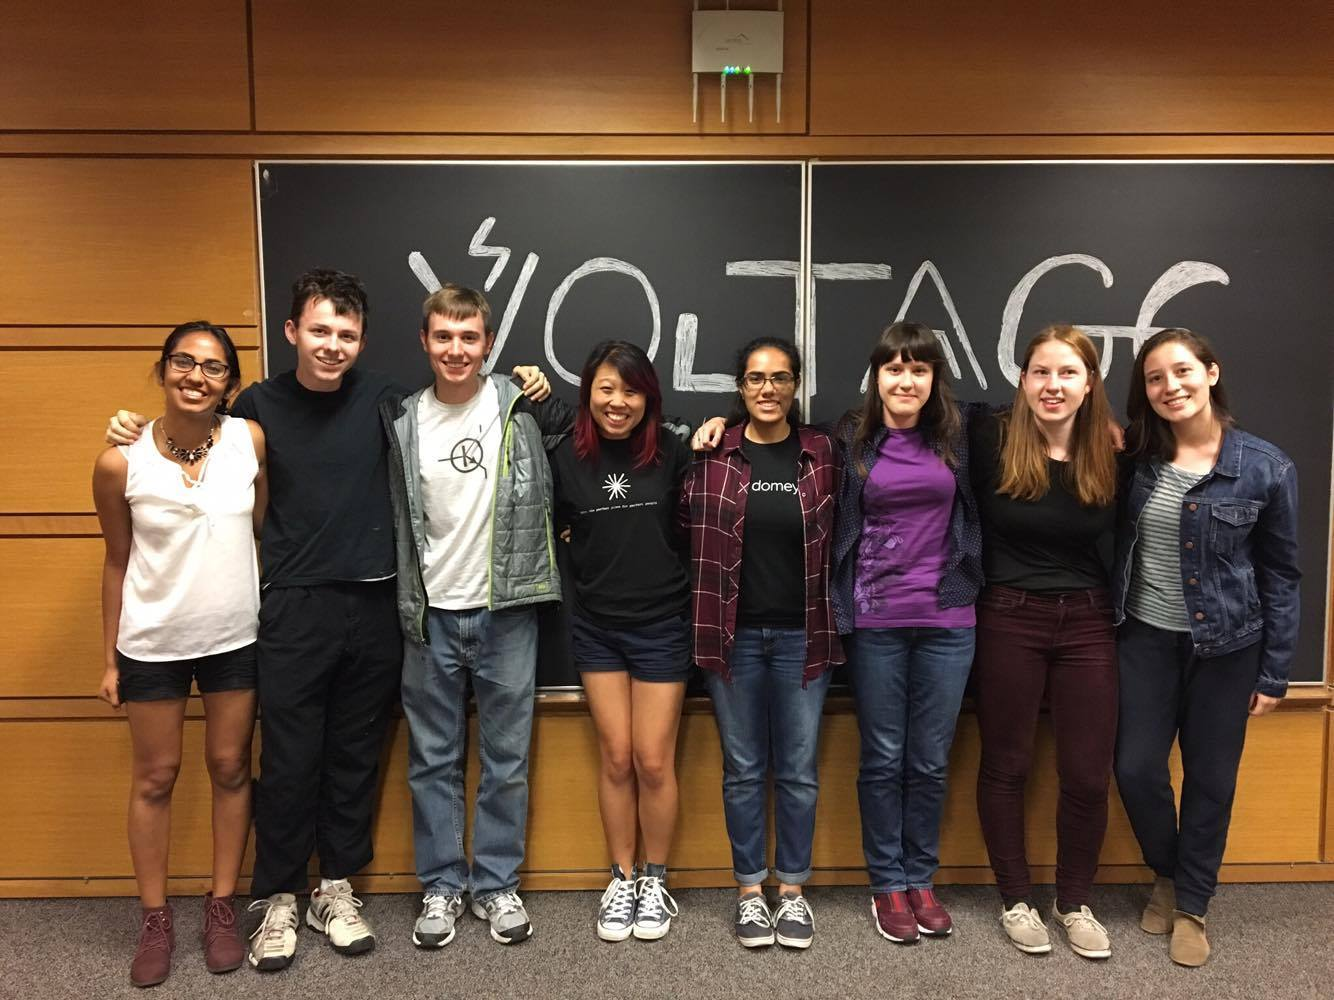
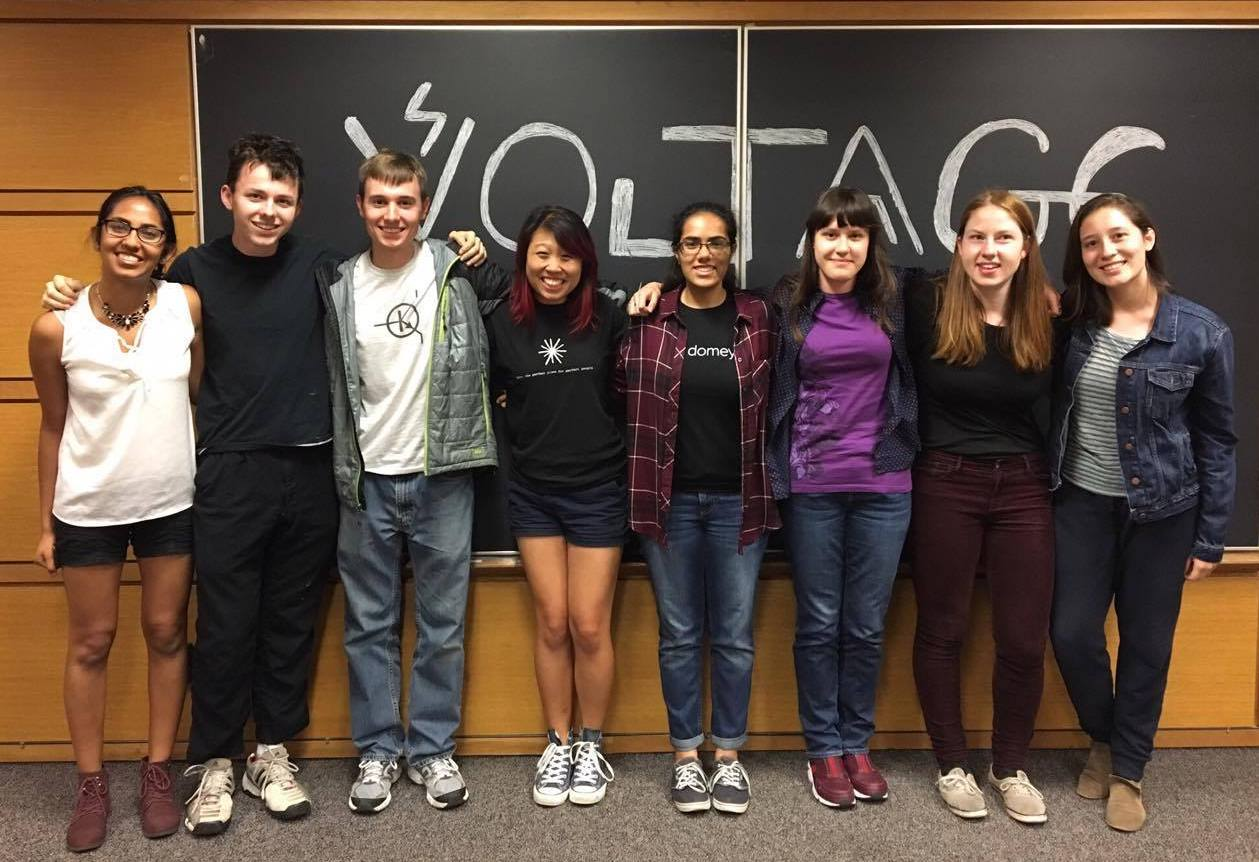
updated team, added photos

diff --git a/index.html b/index.html
@@ -243,78 +243,14 @@
                     <p>Voltage is the electrical engineering subcommittee of <a href="http://ieeeacm.mit.edu/" class="links"> MIT's IEEE/ACM chapter</a>. We are a group of undergraduates working to create a stronger, more cohesive MIT undergraduate EE community by organizing events that allow students, faculty, alumni, and industry to interact. We aim to make being 6-1 more than a major, but a community. Some events we have held in the past are the Undergraduate EE Expo, Research Expo, Alumni Dinner, Faculty and Student Dinner, and study breaks.</p>
                     <img src="img/about/team-2016.jpg" id="team-pic">
                     <br><br>
+                    <p>Voltage was created in 2014, and throughout the years we've been growing and spreading the EE love.</p>
+                    <img src="img/about/ee.jpg" id="ee-pic">
+                    <br><br>
                     <p> And a special thanks to the <a href="https://www.eecs.mit.edu/"  class="links">MIT EECS Department</a> and <a href="http://ieeeacm.mit.edu/" class="links">MIT IEEE/ACM</a> for their immense support.</p>
-                    <img src="img/ieee.png" id="ieee-pic">
+                    <img src="img/about/ieee.png" id="ieee-pic">
                 </div>
             </div>
             <div class="row">
-<!--                 <div class="col-lg-12">
-                    <ul class="timeline">
-                        <li>
-                            <div class="timeline-image">
-                                <img class="img-circle img-responsive" src="img/about/1.jpg" alt="">
-                            </div>
-                            <div class="timeline-panel">
-                                <div class="timeline-heading">
-                                    <h4>2009-2011</h4>
-                                    <h4 class="subheading">Our Humble Beginnings</h4>
-                                </div>
-                                <div class="timeline-body">
-                                    <p class="text-muted">Lorem ipsum dolor sit amet, consectetur adipisicing elit. Sunt ut voluptatum eius sapiente, totam reiciendis temporibus qui quibusdam, recusandae sit vero unde, sed, incidunt et ea quo dolore laudantium consectetur!</p>
-                                </div>
-                            </div>
-                        </li>
-                        <li class="timeline-inverted">
-                            <div class="timeline-image">
-                                <img class="img-circle img-responsive" src="img/about/2.jpg" alt="">
-                            </div>
-                            <div class="timeline-panel">
-                                <div class="timeline-heading">
-                                    <h4>March 2011</h4>
-                                    <h4 class="subheading">An Agency is Born</h4>
-                                </div>
-                                <div class="timeline-body">
-                                    <p class="text-muted">Lorem ipsum dolor sit amet, consectetur adipisicing elit. Sunt ut voluptatum eius sapiente, totam reiciendis temporibus qui quibusdam, recusandae sit vero unde, sed, incidunt et ea quo dolore laudantium consectetur!</p>
-                                </div>
-                            </div>
-                        </li>
-                        <li>
-                            <div class="timeline-image">
-                                <img class="img-circle img-responsive" src="img/about/3.jpg" alt="">
-                            </div>
-                            <div class="timeline-panel">
-                                <div class="timeline-heading">
-                                    <h4>December 2012</h4>
-                                    <h4 class="subheading">Transition to Full Service</h4>
-                                </div>
-                                <div class="timeline-body">
-                                    <p class="text-muted">Lorem ipsum dolor sit amet, consectetur adipisicing elit. Sunt ut voluptatum eius sapiente, totam reiciendis temporibus qui quibusdam, recusandae sit vero unde, sed, incidunt et ea quo dolore laudantium consectetur!</p>
-                                </div>
-                            </div>
-                        </li>
-                        <li class="timeline-inverted">
-                            <div class="timeline-image">
-                                <img class="img-circle img-responsive" src="img/about/4.jpg" alt="">
-                            </div>
-                            <div class="timeline-panel">
-                                <div class="timeline-heading">
-                                    <h4>July 2014</h4>
-                                    <h4 class="subheading">Phase Two Expansion</h4>
-                                </div>
-                                <div class="timeline-body">
-                                    <p class="text-muted">Lorem ipsum dolor sit amet, consectetur adipisicing elit. Sunt ut voluptatum eius sapiente, totam reiciendis temporibus qui quibusdam, recusandae sit vero unde, sed, incidunt et ea quo dolore laudantium consectetur!</p>
-                                </div>
-                            </div>
-                        </li>
-                        <li class="timeline-inverted">
-                            <div class="timeline-image">
-                                <h4>Be Part
-                                    <br>Of Our
-                                    <br>Story!</h4>
-                            </div>
-                        </li>
-                    </ul>
-                </div> -->
             </div>
         </div>
     </section>
@@ -329,36 +265,7 @@
                 </div>
             </div>
             <div class="row">
-                <div class="col-sm-3">
-                    <div class="team-member">
-                        <img src="img/team/weilow.jpg" class="img-responsive img-circle" alt="">
-                        <h4>Wei Low</h4>
-                        <p class="text-muted">Course 6-2, 2017</p>
-                    </div>
-                </div>
-                <div class="col-sm-3">
-                    <div class="team-member">
-                        <img src="img/team/allison.jpg" class="img-responsive img-circle" alt="">
-                        <h4>Allison Lemus</h4>
-                        <p class="text-muted">Course 6-1, 2018</p>
-                    </div>
-                </div>
-                <div class="col-sm-3">
-                    <div class="team-member">
-                        <img src="img/team/neerja.jpg" class="img-responsive img-circle" alt="">
-                        <h4>Neerja Aggarwal</h4>
-                        <p class="text-muted">Course 6-1, 2016</p>
-                    </div>
-                </div>
-                <div class="col-sm-3">
-                    <div class="team-member">
-                        <img src="img/team/karen.jpg" class="img-responsive img-circle" alt="">
-                        <h4>Karen Fan</h4>
-                        <p class="text-muted">Course 6-3, 2018</p>
-                    </div>
-                </div>
-            </div>
-            <div class="row">
+                <!-- Ignacio -->
                 <div class="col-sm-3">
                     <div class="team-member">
                         <img src="img/team/ignacio.jpg" class="img-responsive img-circle" alt="">
@@ -366,20 +273,7 @@
                         <p class="text-muted">Course 6-1, 2018</p>
                     </div>
                 </div>
-                <div class="col-sm-3">
-                    <div class="team-member">
-                        <img src="img/team/mitchell.png" class="img-responsive img-circle" alt="">
-                        <h4>Mitchell Gu</h4>
-                        <p class="text-muted">Course 6-2, 2018</p>
-                    </div>
-                </div>
-                <div class="col-sm-3">
-                    <div class="team-member">
-                        <img src="img/team/jimmy.jpg" class="img-responsive img-circle" alt="">
-                        <h4>Jimmy Mawdsley</h4>
-                        <p class="text-muted">Course 6-1, 2018</p>
-                    </div>
-                </div>
+                <!-- Malika -->
                 <div class="col-sm-3">
                     <div class="team-member">
                         <img src="img/team/malika.jpg" class="img-responsive img-circle" alt="">
@@ -387,15 +281,41 @@
                         <p class="text-muted">Course 6-3, 2018</p>
                     </div>
                 </div>
-            </div>
-            <div class="row">
+                <!-- Jesse -->
                 <div class="col-sm-3">
                     <div class="team-member">
-                        <img src="img/team/sludds.jpg" class="img-responsive img-circle" alt="">
-                        <h4>Alex Sludds</h4>
-                        <p class="text-muted">Course 6-2, 2018</p>
+                        <img src="img/team/jesse.jpg" class="img-responsive img-circle" alt="">
+                        <h4>Jesse Chang</h4>
+                        <p class="text-muted">Course 6-1, 2018</p>
                     </div>
                 </div>
+                <!-- Allison -->
+                <div class="col-sm-3">
+                    <div class="team-member">
+                        <img src="img/team/allison.jpg" class="img-responsive img-circle" alt="">
+                        <h4>Allison Lemus</h4>
+                        <p class="text-muted">Course 6-1, 2018</p>
+                    </div>
+                </div>
+            </div>
+            <div class="row">
+                <!-- Karen -->
+                <div class="col-sm-3">
+                    <div class="team-member">
+                        <img src="img/team/karen.jpg" class="img-responsive img-circle" alt="">
+                        <h4>Karen Fan</h4>
+                        <p class="text-muted">Course 6-3, 2018</p>
+                    </div>
+                </div>
+                <!-- Jimmy -->
+                <div class="col-sm-3">
+                    <div class="team-member">
+                        <img src="img/team/jimmy.jpg" class="img-responsive img-circle" alt="">
+                        <h4>Jimmy Mawdsley</h4>
+                        <p class="text-muted">Course 6-1, 2018</p>
+                    </div>
+                </div>
+                <!-- Diana -->
                 <div class="col-sm-3">
                     <div class="team-member">
                         <img src="img/team/diana.jpg" class="img-responsive img-circle" alt="">
@@ -403,22 +323,7 @@
                         <p class="text-muted">Course 6-1, 2018</p>
                     </div>
                 </div>
-                <div class="col-sm-3">
-                    <div class="team-member">
-                        <img src="img/team/jennifer.jpg" class="img-responsive img-circle" alt="">
-                        <h4>Jennifer McCleary</h4>
-                        <p class="text-muted">Course 6-2, 2019</p>
-                    </div>
-                </div>
-                <div class="col-sm-3">
-                    <div class="team-member">
-                        <img src="img/team/helmuth.jpg" class="img-responsive img-circle" alt="">
-                        <h4>Helmuth Naumer</h4>
-                        <p class="text-muted">Course 6-1, 2019</p>
-                    </div>
-                </div>
-            </div>
-            <div class="row">
+                <!-- Victoria -->
                 <div class="col-sm-3">
                     <div class="team-member">
                         <img src="img/team/victoria.jpg" class="img-responsive img-circle" alt="">
@@ -426,13 +331,25 @@
                         <p class="text-muted">Course 6-2, 2019</p>
                     </div>
                 </div>
+            </div>
+            <div class="row">
+                <!-- David -->
                 <div class="col-sm-3">
                     <div class="team-member">
-                        <img src="img/team/farita.jpg" class="img-responsive img-circle" alt="">
-                        <h4>Farita Tasnim</h4>
-                        <p class="text-muted">Course 6-1, 2019</p>
+                        <img src="img/team/swag.jpg" class="img-responsive img-circle" alt="">
+                        <h4>David Owusu-Antwi</h4>
+                        <p class="text-muted">Course 8, 2019</p>
                     </div>
                 </div>
+                <!-- Emmanuel -->
+                <div class="col-sm-3">
+                    <div class="team-member">
+                        <img src="img/team/whoo.jpg" class="img-responsive img-circle" alt="">
+                        <h4>Emmanuel Havugimana</h4>
+                        <p class="text-muted">Course 6-1, 2020</p>
+                    </div>
+                </div>
+                <!-- Kristie -->
                 <div class="col-sm-3">
                     <div class="team-member">
                         <img src="img/team/kristie.jpg" class="img-responsive img-circle" alt="">
@@ -440,11 +357,12 @@
                         <p class="text-muted">Course 6-2, 2020</p>
                     </div>
                 </div>
+                <!-- No one -->
                 <div class="col-sm-3">
                     <div class="team-member">
-                        <img src="img/team/adrian.jpg" class="img-responsive img-circle" alt="">
-                        <h4>Adrian Meza</h4>
-                        <p class="text-muted">Course 6-1 & 8, 2020</p>
+                        <img src="img/team/aye.jpg" class="img-responsive img-circle" alt="">
+                        <h4>You?</h4>
+                        <p class="text-muted">Course #, 20??</p>
                     </div>
                 </div>
             </div>
@@ -453,81 +371,16 @@
                     <p class="large text-muted">Voltage is always looking for new members passionate about EE community. Apply <a href="#">here</a>!</p>
                 </div>
             </div>
+            <!-- <div class="row">
+                <div class="col-lg-8 col-lg-offset-2">
+                    <br>
+                    <img src="img/voltage.jpg" class="img-responsive" alt="">
+                </div>
+            </div> -->
         </div>
     </section>
 
-    <!-- Clients Aside -->
-<!--     <aside class="clients">
-        <div class="container">
-            <div class="row">
-                <div class="col-md-3 col-sm-6">
-                    <a href="#">
-                        <img src="img/logos/envato.jpg" class="img-responsive img-centered" alt="">
-                    </a>
-                </div>
-                <div class="col-md-3 col-sm-6">
-                    <a href="#">
-                        <img src="img/logos/designmodo.jpg" class="img-responsive img-centered" alt="">
-                    </a>
-                </div>
-                <div class="col-md-3 col-sm-6">
-                    <a href="#">
-                        <img src="img/logos/themeforest.jpg" class="img-responsive img-centered" alt="">
-                    </a>
-                </div>
-                <div class="col-md-3 col-sm-6">
-                    <a href="#">
-                        <img src="img/logos/creative-market.jpg" class="img-responsive img-centered" alt="">
-                    </a>
-                </div>
-            </div>
-        </div>
-    </aside> -->
-
-    <!-- Contact Section -->
-<!--     <section id="contact">
-        <div class="container">
-            <div class="row">
-                <div class="col-lg-12 text-center">
-                    <h2 class="section-heading">Contact Us</h2>
-                    <h3 class="section-subheading text-muted">Lorem ipsum dolor sit amet consectetur.</h3>
-                </div>
-            </div>
-            <div class="row">
-                <div class="col-lg-12">
-                    <form name="sentMessage" id="contactForm" novalidate>
-                        <div class="row">
-                            <div class="col-md-6">
-                                <div class="form-group">
-                                    <input type="text" class="form-control" placeholder="Your Name *" id="name" required data-validation-required-message="Please enter your name.">
-                                    <p class="help-block text-danger"></p>
-                                </div>
-                                <div class="form-group">
-                                    <input type="email" class="form-control" placeholder="Your Email *" id="email" required data-validation-required-message="Please enter your email address.">
-                                    <p class="help-block text-danger"></p>
-                                </div>
-                                <div class="form-group">
-                                    <input type="tel" class="form-control" placeholder="Your Phone *" id="phone" required data-validation-required-message="Please enter your phone number.">
-                                    <p class="help-block text-danger"></p>
-                                </div>
-                            </div>
-                            <div class="col-md-6">
-                                <div class="form-group">
-                                    <textarea class="form-control" placeholder="Your Message *" id="message" required data-validation-required-message="Please enter a message."></textarea>
-                                    <p class="help-block text-danger"></p>
-                                </div>
-                            </div>
-                            <div class="clearfix"></div>
-                            <div class="col-lg-12 text-center">
-                                <div id="success"></div>
-                                <button type="submit" class="btn btn-xl">Send Message</button>
-                            </div>
-                        </div>
-                    </form>
-                </div>
-            </div>
-        </div>
-    </section> -->
+   
 
     <footer>
         <div class="container">
@@ -587,11 +440,6 @@
                                 <p>The first ever Undergraduate EE Expo brought together over 100 students, 17 companies, and 80 internship and research positions. From 3-4 pm, we had 8 EECS faculty present about their research in the RLE Allen & Haus Rooms. From 4-5 pm, there was a quick preview of all the company and industry opportunities at the EE Expo. Some attending companies included Bose, Lincoln Laboratory, MediaTek, Texas instruments, and Vanu Inc. Then from 5-6 pm, the event moved to the Grier Room for an internship fair exclusively for freshmen and sophomores attending the EE expo. This exclusive internship fair gave underclassmen the opportunity to receive priority attention from company representatives and learn more about exploratory and introductory positions at these companies. From 6-7 pm the fair was open to everyone. After the conclusion of the event, Anantha Chandrakasan held four special “office hour sessions” in Feb-March to help students find internships for the summer.</p>
                                 <img class="img-responsive img-centered event-pic" src="img/portfolio/vanu.jpeg" alt="">
                                 <img class="img-responsive img-centered event-pic" src="img/portfolio/EE_Expo.jpeg" alt="">
-   <!--                              <ul class="list-inline">
-                                    <li>Date: July 2014</li>
-                                    <li>Client: Round Icons</li>
-                                    <li>Category: Graphic Design</li>
-                                </ul> -->
                                 <button type="button" class="btn btn-primary" data-dismiss="modal"><i class="fa fa-times"></i> Close</button>
                             </div>
                         </div>

diff --git a/css/agency.css b/css/agency.css
@@ -17,6 +17,10 @@
   height: 150px;
 }
 
+#ee-pic {
+  height: 390px;
+}
+
 body {
   overflow-x: hidden;
   font-family: "Titillium Web", "Helvetica Neue", Helvetica, Arial, sans-serif;
